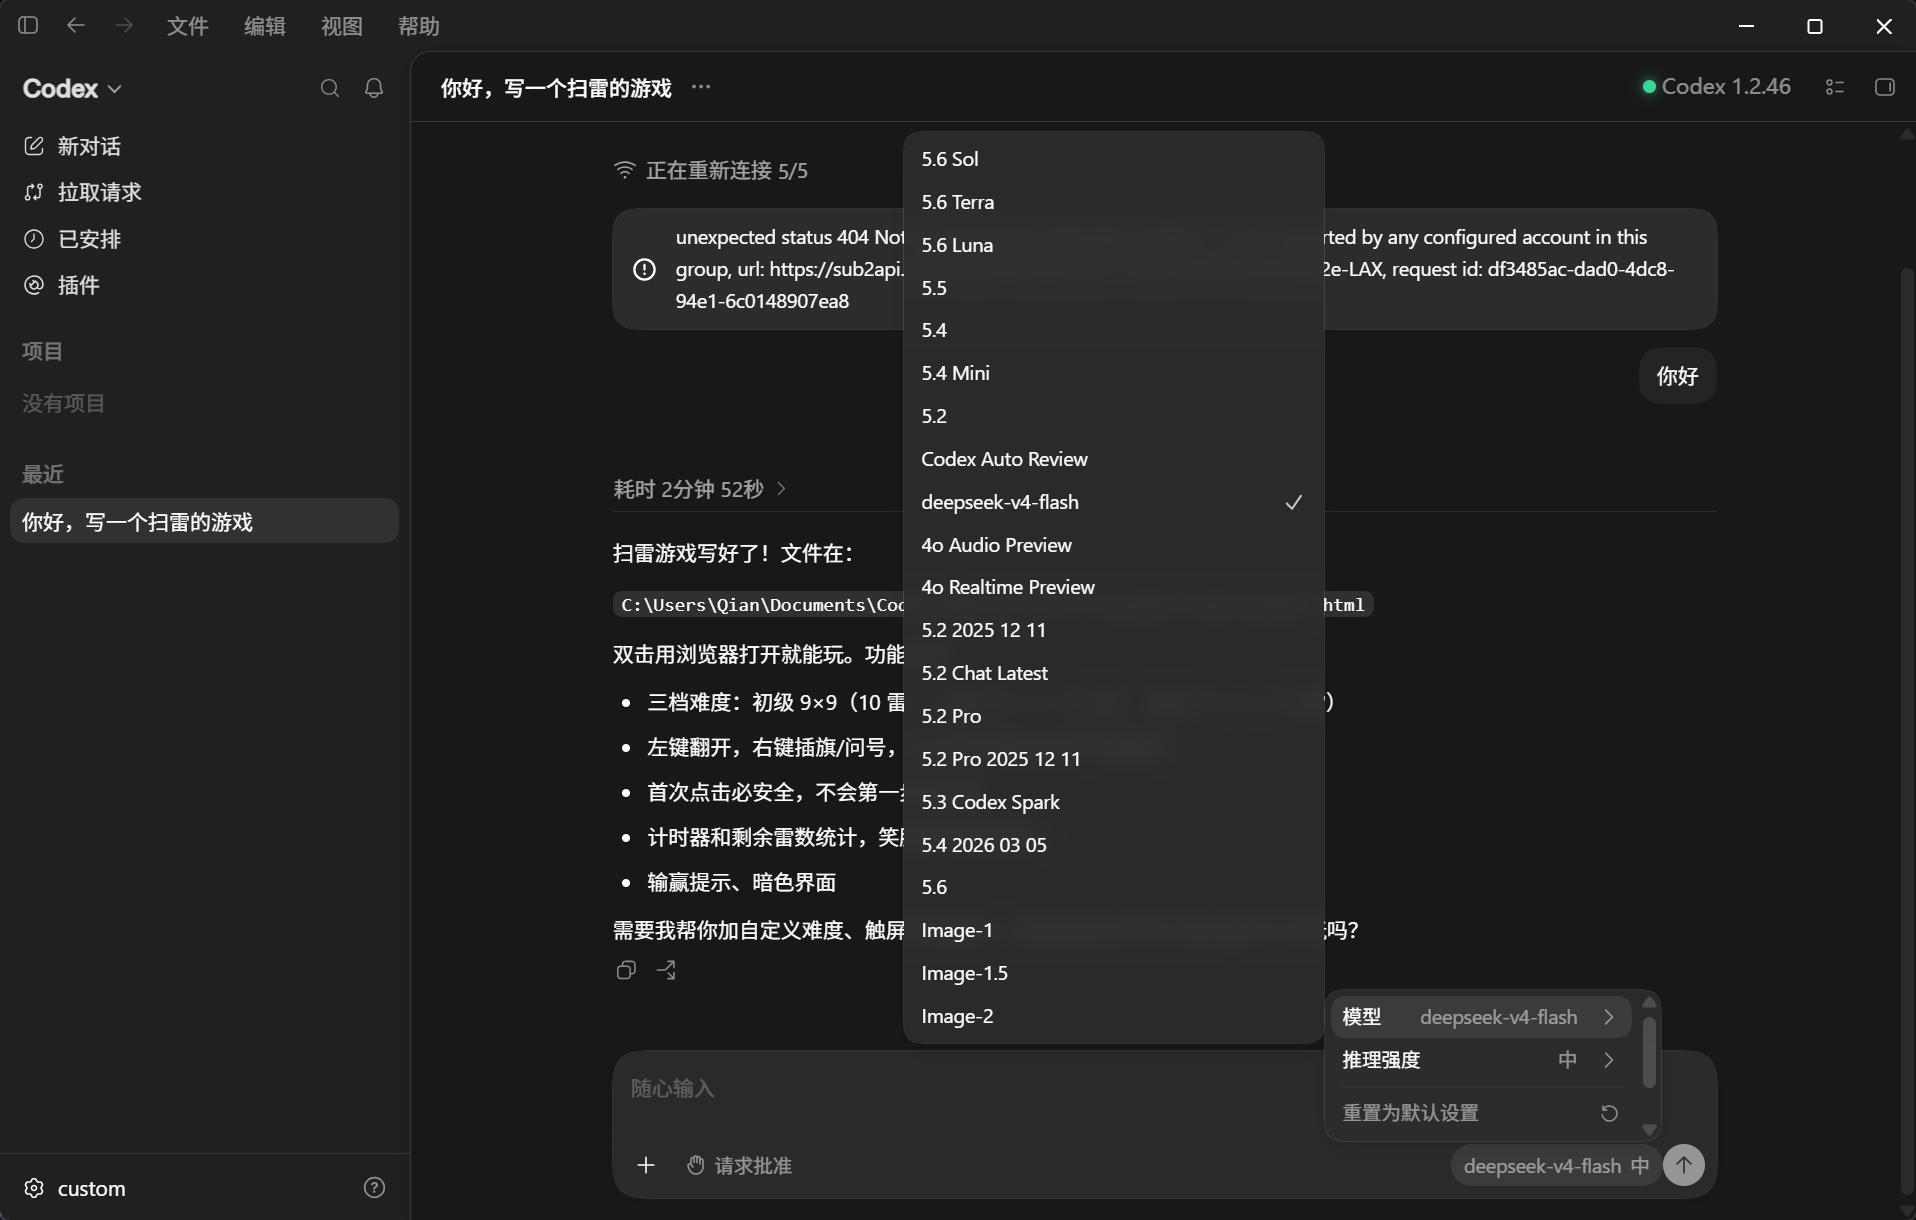
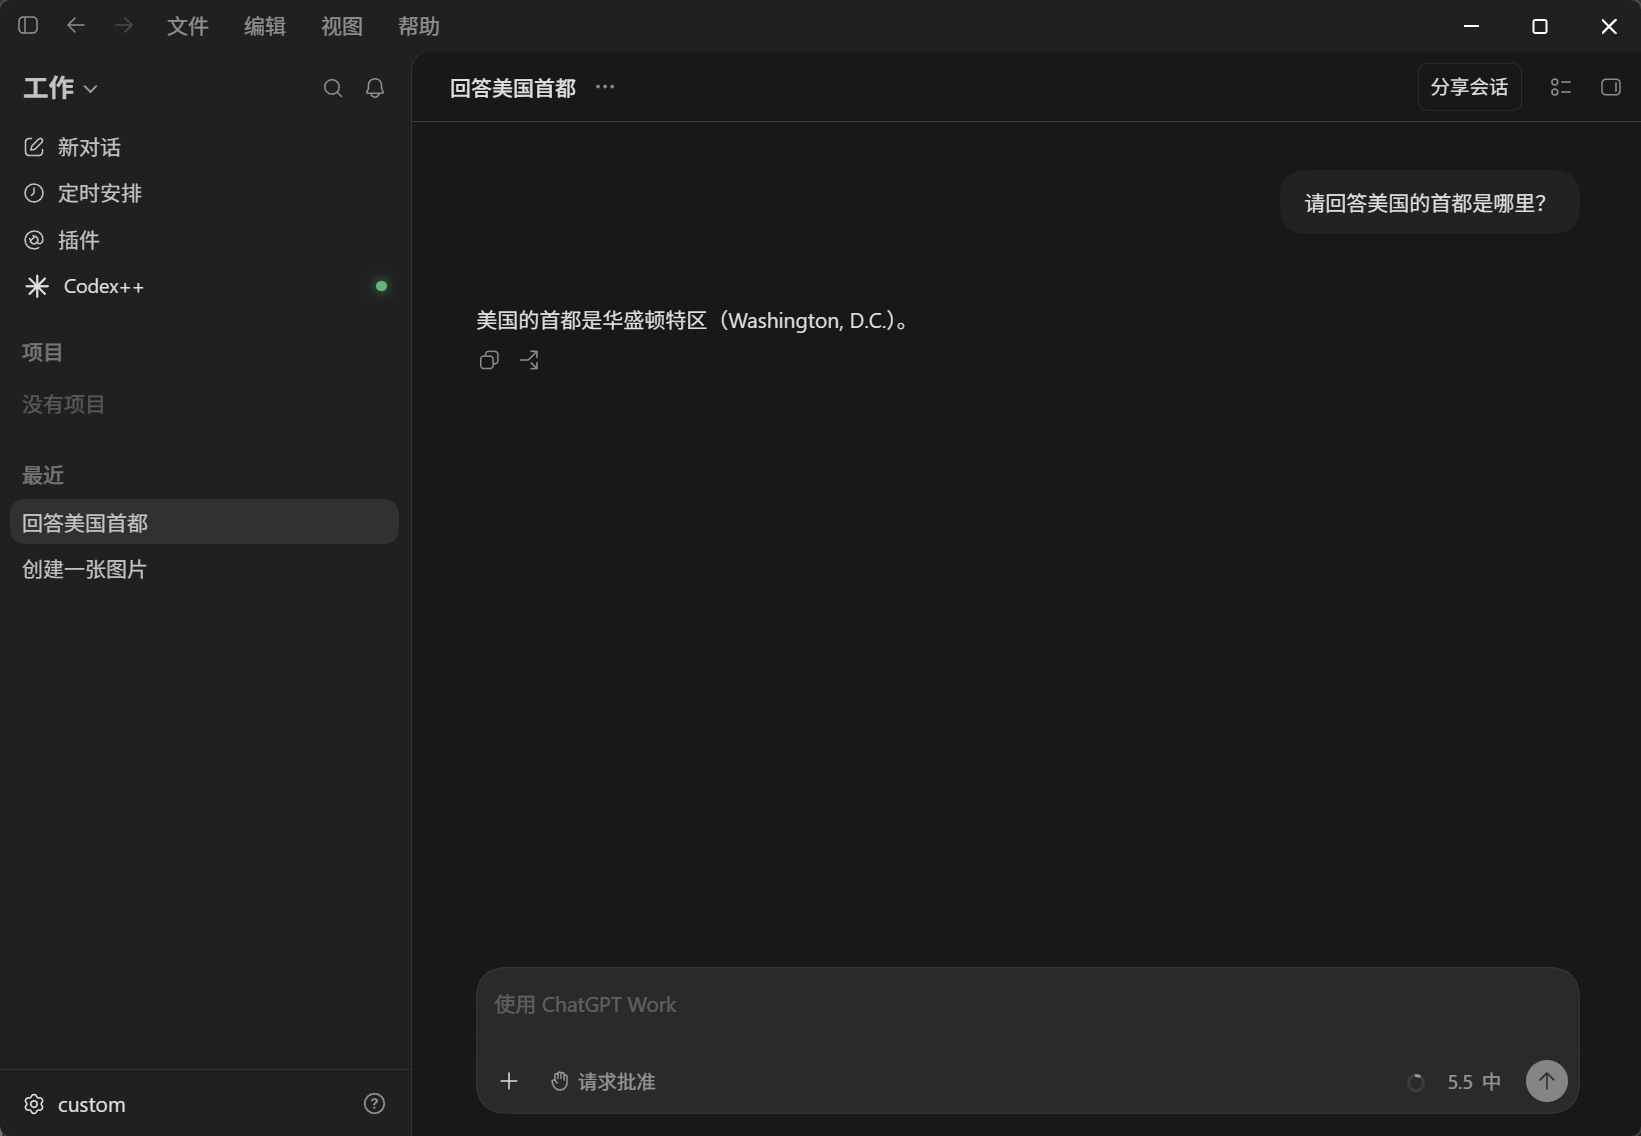
docs(portable): move the conversation screenshot under "开始对话"
步骤10 截图换成对话示例（提问 + 回答），原先错放在「切换模型」的
404 排查小节末尾，现移到 10. 开始对话 正文下方，alt 文本一并更正。

diff --git a/docs/ChatGPT便携版使用说明.md b/docs/ChatGPT便携版使用说明.md
@@ -89,11 +89,11 @@
 2. 或回到服务商后台，为密钥选择支持目标模型的分组后重新创建密钥。
 3. 保存配置并重新启动启动器。
 
-![选择服务商已支持的模型](assets/chatgpt-usage/步骤10-使用.png)
-
 ### 10. 开始对话
 
 选择模式和模型后，直接在输入框描述需求即可。对于编程任务，建议同时说明：目标、已有代码/报错、期望输出及限制条件。
+
+![在输入框提问并得到回答](assets/chatgpt-usage/步骤10-使用.png)
 
 ## 四、查看用量
 
